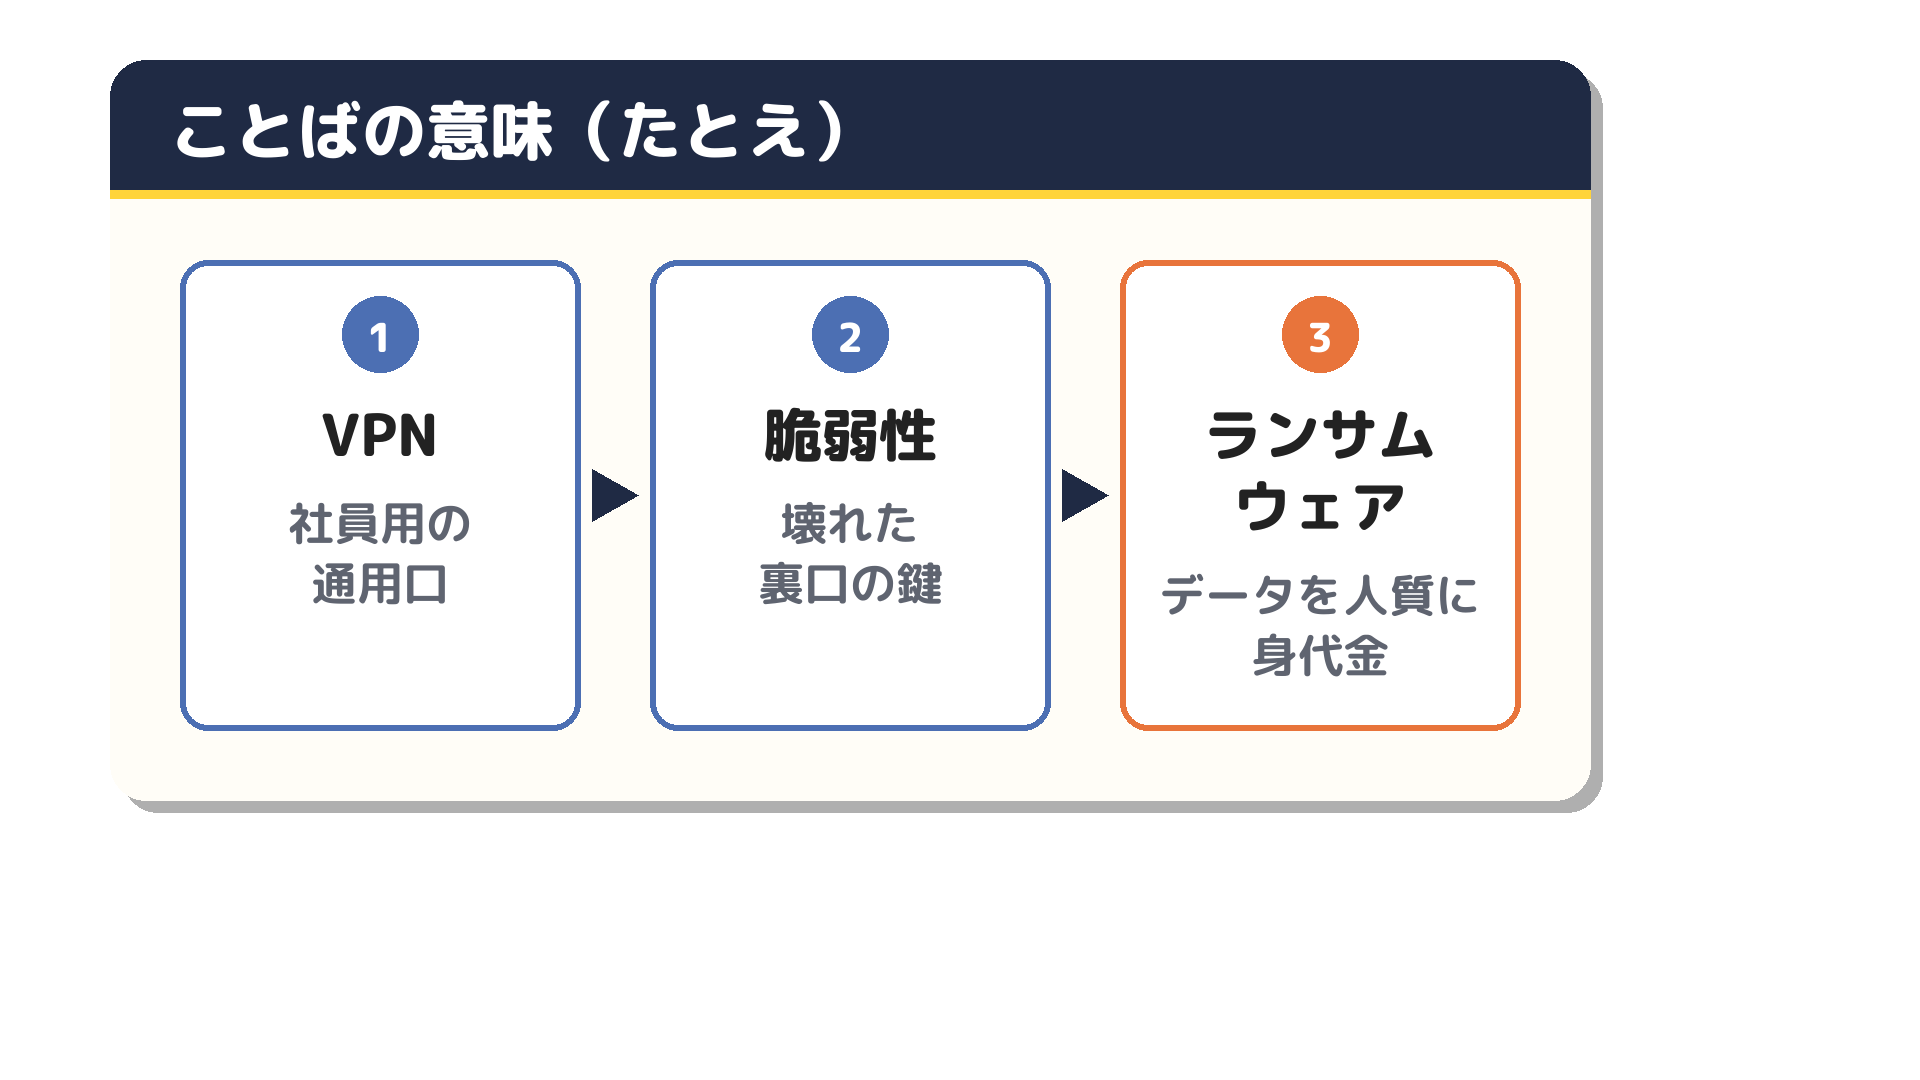
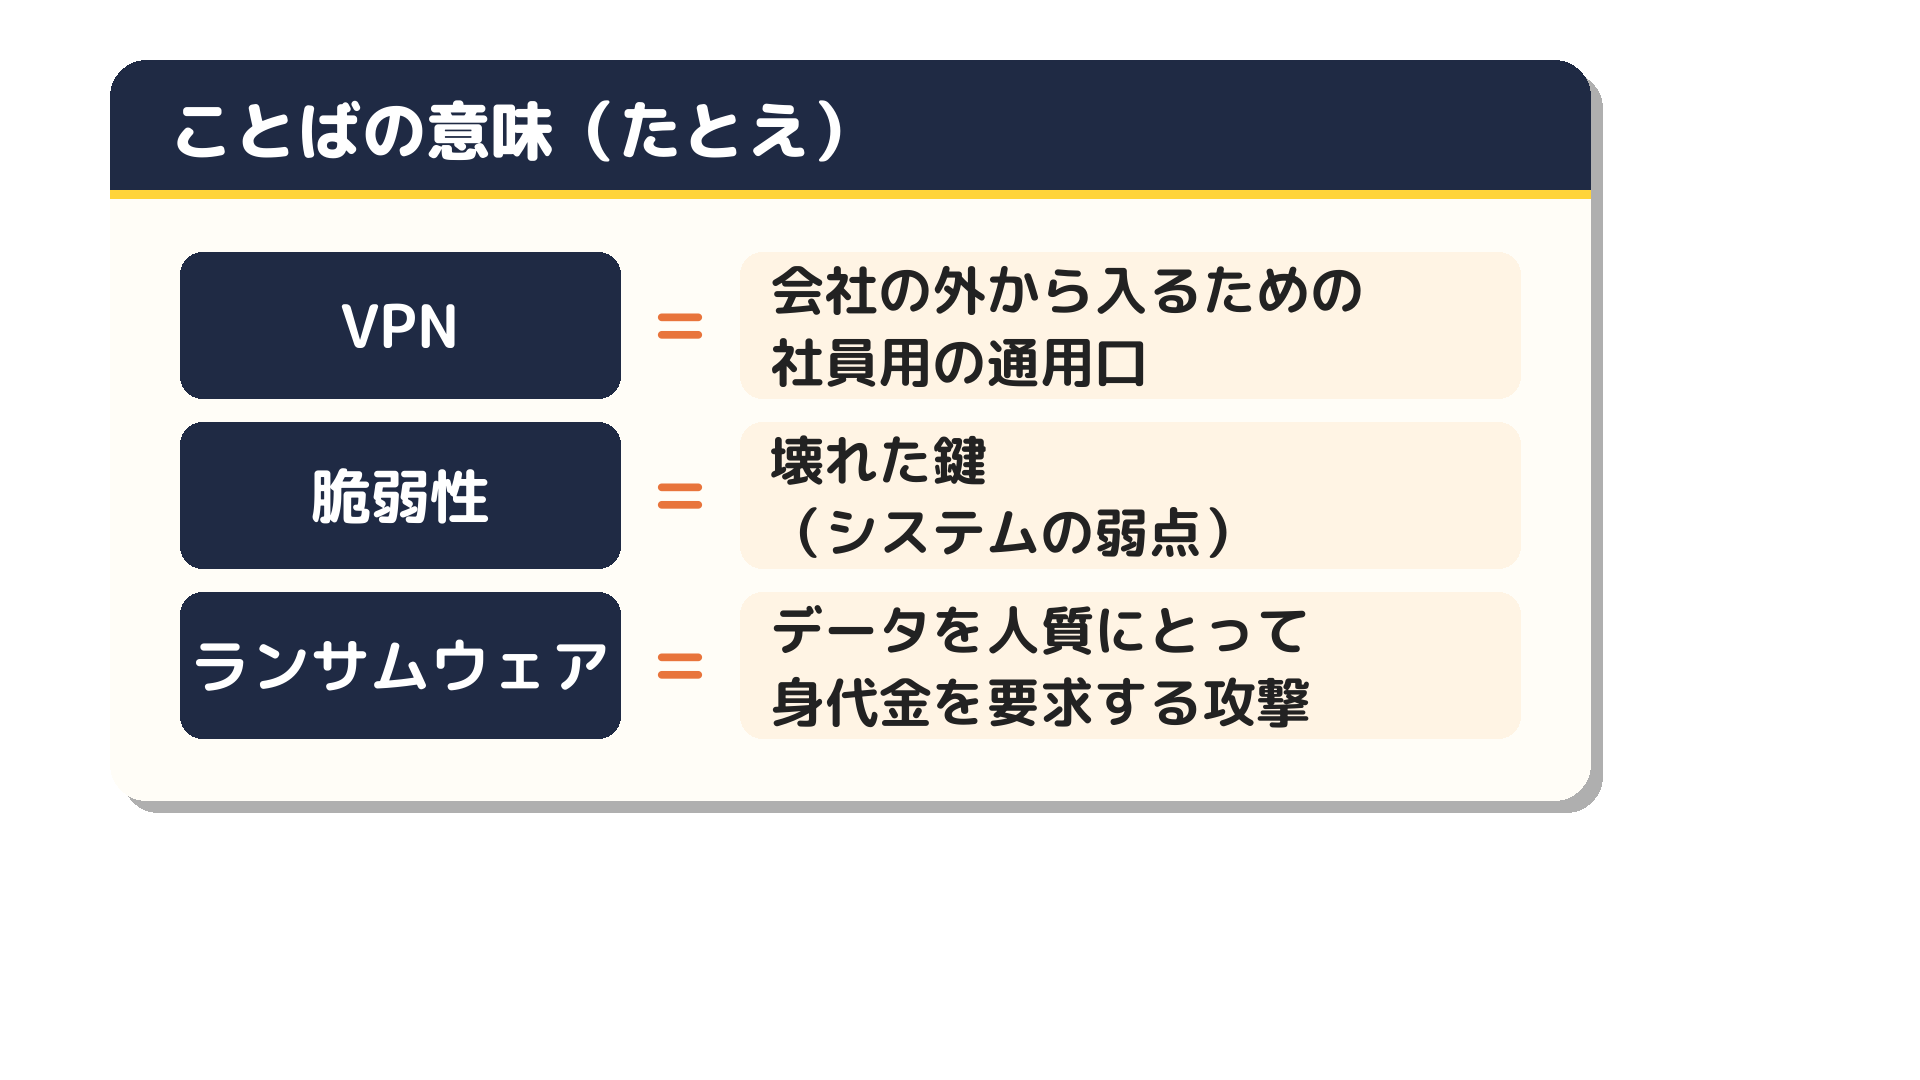
4本目：用語の図を＝形式に、弱点の説明ページ2枚を追加、セリフをわかりやすく
Claude-Session: https://claude.ai/code/session_011g9CsrfFD5YswfNSvNDW39

Changed region(s): [[0.0938, 0.2139, 0.8125, 0.7028]]

diff --git a/catmeme/make_parts_04_leak.py b/catmeme/make_parts_04_leak.py
@@ -38,6 +38,29 @@ def table3(title, head, rows, widths=(240, 620), tag="", size=48):
     return img
 
 
+def glossary(title, rows, tag=""):
+    """ことばの意味。左に用語、＝、右にたとえ（順番や流れはないので矢印は使わない）。"""
+    img, d, (bx0, by0, bx1, by1) = P.card(title, tag)
+    row_h = (by1 - by0) / len(rows)
+    tf, ef = P.font("round_b", 60), P.font("round_b", 72)
+    for i, (term, desc) in enumerate(rows):
+        y0 = by0 + row_h * i + 12
+        y1 = by0 + row_h * (i + 1) - 12
+        cy = (y0 + y1) / 2
+        d.rounded_rectangle((bx0, y0, bx0 + 440, y1), 22, fill=P.NAVY)
+        d.text((bx0 + 220, cy), term, font=tf, fill=P.WHITE, anchor="mm")
+        d.text((bx0 + 500, cy), "＝", font=ef, fill=P.ACCENT, anchor="mm")
+        d.rounded_rectangle((bx0 + 560, y0, bx1, y1), 22, fill=(255, 244, 228))
+        size = 54
+        sf = P.font("round_b", size)
+        while (max(d.textlength(t, font=sf) for t in desc.split("\n")) > bx1 - bx0 - 620
+               or size * 1.25 * len(desc.split("\n")) > y1 - y0 - 10):
+            size -= 2
+            sf = P.font("round_b", size)
+        d.multiline_text((bx0 + 590, cy), desc, font=sf, fill=P.INK, anchor="lm", spacing=int(size * 0.25))
+    return img
+
+
 ITEMS = {
     "e00_notice": P.message(["※件数は各社の発表どおりです", "（「漏えいのおそれ」を含みます）",
                              "※被害を受けた会社を責める動画ではありません", "※猫は演出です"], opaque=True, size=72),
@@ -66,11 +89,22 @@ ITEMS = {
         ("フィッシング", 1, False, ""),
         ("人のうっかり", 2, False, "誤送付・誤入力"),
     ], unit="件", note="※うっかりの例はほかにも（紙の紛失・8年間の誤掲載など）"),
-    "e03b_words": P.flow("ことばの意味（たとえ）", [
-        ("VPN", "社員用の\n通用口"),
-        ("脆弱性", "壊れた\n裏口の鍵"),
-        ("ランサム\nウェア", "データを人質に\n身代金"),
-    ], hsize=58, ssize=46),
+    "e03c_weak": P.bullets("「機器やシステムの弱点」ってなに？", [
+        "ネットにつながった機器やプログラムの“欠陥”",
+        "例：プログラムのミス・古いままの設定",
+        "直す前・更新しないままだと　そこから侵入される",
+        "会社の外から入れる場所ほど　ねらわれやすい",
+    ], size=56),
+    "e03d_weak_ex": table3("9月の例：どこに弱点があった？", ("どこ", "弱点があった所", "たとえると"), [
+        ("デジタル庁", "VPN機器", ("社員用の通用口", True)),
+        ("ムラウチドットコム", "通販サイトのしくみ", "お店の入口"),
+        ("Gyazo", "画像のサーバー", "荷物の受付口"),
+    ], widths=(420, 520), size=56),
+    "e03b_words": glossary("ことばの意味（たとえ）", [
+        ("VPN", "会社の外から入るための\n社員用の通用口"),
+        ("脆弱性", "壊れた鍵\n（システムの弱点）"),
+        ("ランサムウェア", "データを人質にとって\n身代金を要求する攻撃"),
+    ]),
     "e04_ransom": P.bars("ランサムウェアの被害（上半期・警察庁）", [
         ("2022年", 114, False, ""),
         ("2023年", 103, False, ""),

diff --git a/catmeme/cuts_04_leak.py b/catmeme/cuts_04_leak.py
@@ -171,9 +171,10 @@ def cuts_all():
         hk("ふっふっふ……\n入口なんて\nいくらでもあるのよ", se="anime_broly_dedeen"),
         dia("e03_cause", "9月に原因まで公表された10件を見ると", "bg24_server_room", right=S, se="xylophone_transition"),
         dia("e03_cause", "いちばん多いのは　ネットにつながった機器やシステムの「弱点」をつかれたケース", "bg24_server_room", right=S, se="doon_heavy"),
+        dia("e03c_weak", "弱点＝プログラムのミスや古い設定など　“直っていない欠陥”", "bg24_server_room", right=S, se="page_turn_02"),
+        dia("e03d_weak_ex", "9月の発表では　こんな所の弱点がねらわれた", "bg24_server_room", right=S, se="card_flip"),
         dia("e03b_words", "むずかしい言葉は　こう考えるとわかりやすい", "bg24_server_room", right=S, se="idea_newtype_01"),
-        ss("デジタル庁は\nVPN機器の弱点から\nGyazoはアップロードの\nサーバーから", "bg24_server_room", se="page_turn_02"),
-        nn("通用口の鍵が\n壊れてたってことか", "bg24_server_room", se="kon"),
+        nn("つまり会社の出入り口に\nスキマがあって\nそこから入られたってことか", "bg24_server_room", se="kon"),
         ss("偽のログイン画面に誘う\n「フィッシング」で\nメールを乗っ取られた例も", "bg24_server_room", se="pi"),
         hk("ポチッと押してくれれば\nこっちのもん", se="game_zelda_item_get"),
         expl("bg25_office_desk", [cat("@react", "ニュース猫", 500), cat("@calm", "博識な猫", 1430)], "",

diff --git a/catmeme/scripts/04_leak.md b/catmeme/scripts/04_leak.md
@@ -68,10 +68,10 @@
 【字幕】9月に原因まで公表された10件を見ると
 〔カード：円グラフ風〕機器やシステムの弱点 6件／設定の不備 1件／フィッシング 1件／攻撃者なしのうっかり 2件以上
 【字幕】いちばん多いのは　ネットにつながった機器やシステムの「弱点」をつかれたケース
-〔カード：たとえ〕VPN＝社員用の通用口／脆弱性＝壊れた裏口の鍵／ランサムウェア＝データを人質に身代金
-【字幕】デジタル庁は　VPN機器の弱点から
-【字幕】Gyazo は　画像アップロードのサーバーの弱点から
-ニュース猫「通用口の鍵が壊れてたってことか」
+〔カード：「機器やシステムの弱点」ってなに？〕ネットにつながった機器やプログラムの“欠陥”（例：プログラムのミス・古いままの設定）／直す前・更新しないままだと そこから侵入される／会社の外から入れる場所ほど ねらわれやすい
+〔カード：9月の例〕デジタル庁＝VPN機器（社員用の通用口）／ムラウチドットコム＝通販サイトのしくみ（お店の入口）／Gyazo＝画像のサーバー（荷物の受付口）
+〔カード：ことばの意味〕VPN＝会社の外から入るための社員用の通用口／脆弱性＝壊れた鍵（システムの弱点）／ランサムウェア＝データを人質にとって身代金を要求する攻撃
+ニュース猫「つまり会社の出入り口にスキマがあって　そこから入られたってことか」
 【字幕】メールで偽のログイン画面に誘う「フィッシング」で　メールを乗っ取られた例も
 ハッカー猫「ポチッと押してくれれば　こっちのもん」
 〔説明〕実は　攻撃者がいない漏えいもある
